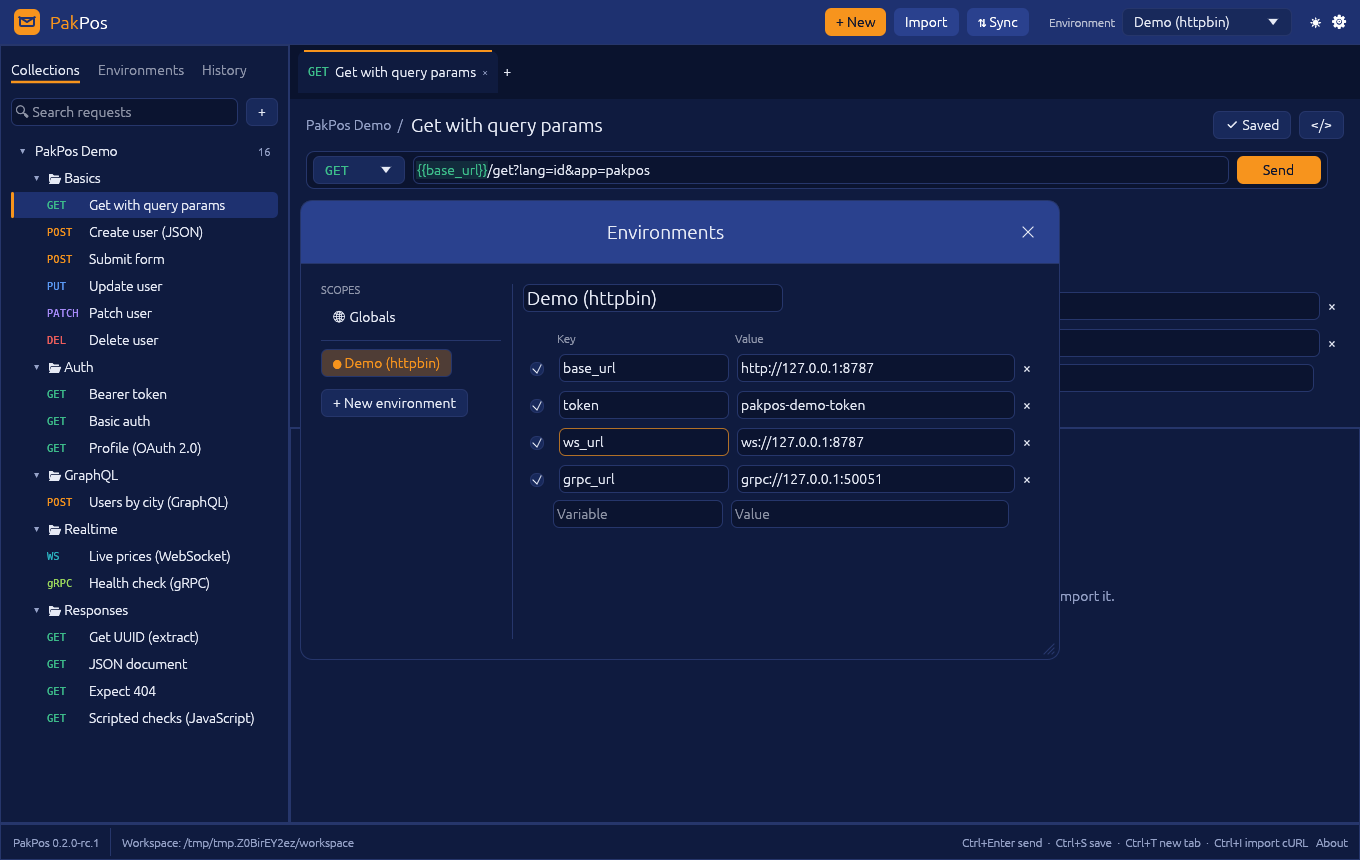
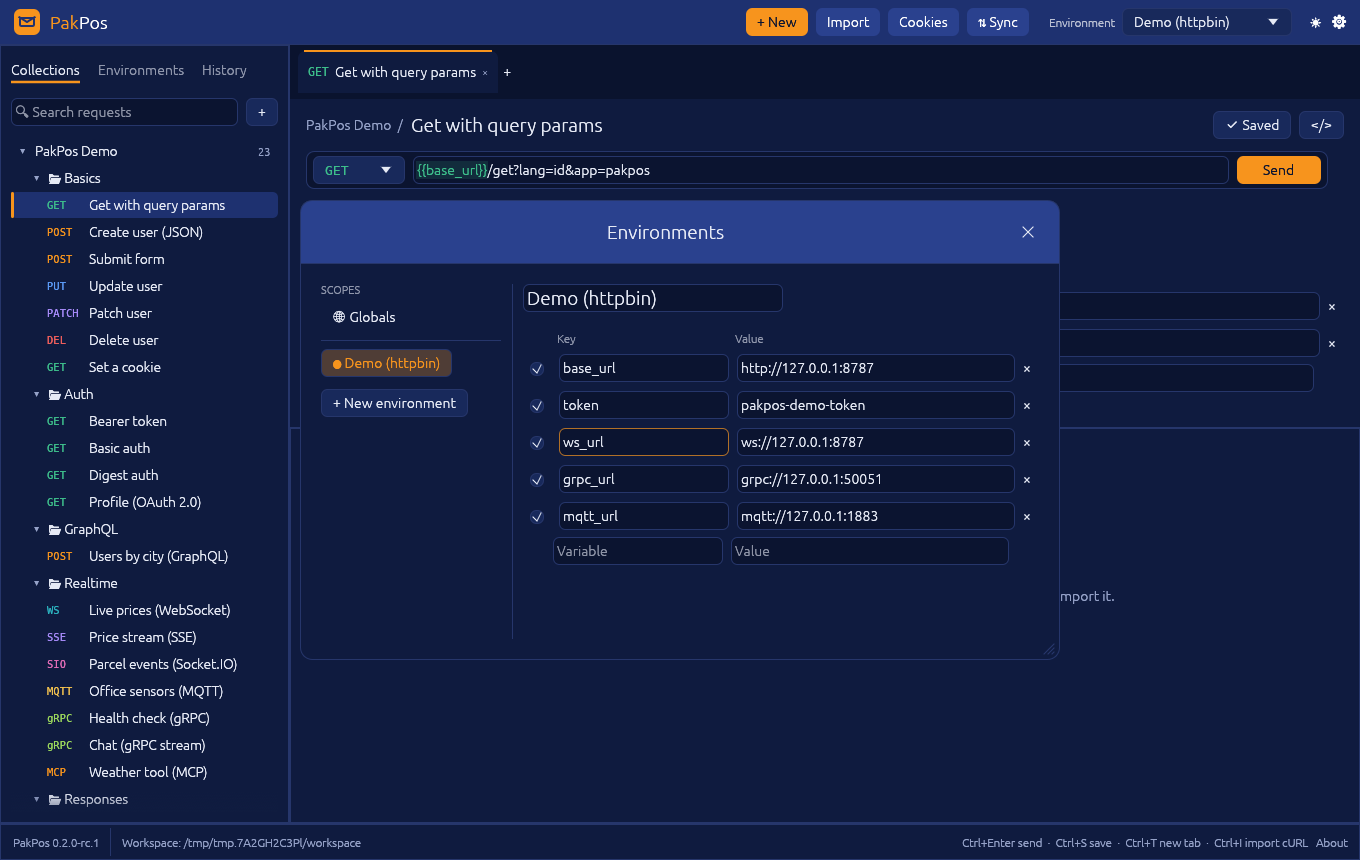
docs: README, roadmap, FAQ and screenshots for the next release
README (EN/ID) describes the new protocols, auth, OpenAPI, data-driven
runs and the Indonesian UI; the gaps list is current. Installation and FAQ
explain macOS 15's Privacy & Security → Open Anyway. All screenshots
regenerated, plus the new bahasa scene.

diff --git a/README.md b/README.md
@@ -41,17 +41,26 @@ out and brings the reply back. That's the whole job.
 ## What it can do today
 
 You can send any common HTTP method with query params, headers, and JSON, form,
-multipart, binary or GraphQL bodies. Basic, Bearer, API-key and OAuth 2.0 auth
-are built in (client credentials, password, and the browser login with PKCE),
+multipart, binary or GraphQL bodies. Basic, Bearer, API-key, Digest, NTLM, AWS
+Signature v4 and OAuth 2.0 auth are built in (client credentials, password, and
+the browser login with PKCE), client certificates (mTLS) can be set per host,
 and a request can inherit auth from its folder or collection, so you set your
 token once instead of forty times. OAuth tokens are fetched and refreshed for
 you, and they live in a local file, never in the collection you share.
 
-It isn't only HTTP. A request can be a **WebSocket** (connect, send messages,
-watch the live log) or a **gRPC** call: PakPos reads the service from server
-reflection or your `.proto` files, gives you a JSON template for the message,
-and shows the reply, streaming included. GraphQL gets a schema explorer, so you
-can click your way to a starter query instead of reading SDL.
+It isn't only HTTP. A request can be a **WebSocket**, **Server-Sent Events**,
+**Socket.IO** or **MQTT** connection (connect, send or publish, watch the live
+log) or a **gRPC** call: PakPos reads the service from server reflection or your
+`.proto` files, gives you a JSON template for the message, and shows the reply.
+Client and bidirectional streams stay open, so you send messages one by one and
+see the answers as they come. GraphQL gets a schema explorer, so you can click
+your way to a starter query instead of reading SDL. And if you build **MCP
+servers**, a request can call their tools, read resources and get prompts, with
+the same tests as a REST call.
+
+Responses can be searched (`Ctrl/⌘ + F`), browsed as a JSON tree, and previewed
+when they're images or HTML. Cookies that servers set go into a jar you can see
+and edit. Requests and folders reorder with drag & drop.
 
 Requests live in collections with folders. Environments hold variables like
 `{{base_url}}` and `{{token}}`: switch from Staging to Production in the header
@@ -62,8 +71,9 @@ For checking responses you have two options. Small declarative checks such as
 `status equals 200`, `json.data.id exists` or `time less than 500` cover most
 needs and are easy to review in a diff. When you need more, write
 JavaScript with a familiar `pm.*` API (`pm.test`, `pm.expect`, `pm.environment.set`…). It
-runs in a sandbox with no file or network access, and scripts from a collection
-you imported only run after you say you trust it.
+runs in a sandbox with no file access, scripts from a collection you imported
+only run after you say you trust it, and `pm.sendRequest` only works for
+collections you also gave network access.
 
 Save a response as an **example** and PakPos can serve those examples as a mock
 API, which is handy when the frontend is ready before the backend is.
@@ -71,7 +81,8 @@ API, which is handy when the frontend is ready before the backend is.
 Have collections from another tool? Files in the common Collection v2.1 JSON
 format, and their environments, [import as-is](docs/src/tutorial/import.md):
 folders, auth (OAuth 2.0 too), GraphQL bodies, scripts and saved examples come
-across. You can also paste a `curl` command straight into the URL
+across. OpenAPI 3 and Swagger 2 specs (JSON or YAML) import too, and any
+collection exports back to OpenAPI 3. You can also paste a `curl` command straight into the URL
 bar, and go the other way with the `</>` button to get cURL, Python, JavaScript
 or HTTPie snippets.
 
@@ -80,7 +91,8 @@ the workspace into a git repository and commits, pulls and pushes it with the
 git you already have, so your history and access control stay on GitHub, GitLab
 or wherever your code lives.
 
-There's a light theme too, if that's your thing:
+The UI speaks English and Bahasa Indonesia (Settings → Language). There's a
+light theme too, if that's your thing:
 
 ![PakPos in light mode](docs/screenshots/light.png)
 
@@ -95,9 +107,11 @@ pakpos-cli run api/collection.json -e api/staging.json --var token=$API_TOKEN \
 ```
 
 It exits non-zero when a check fails, speaks JUnit for GitHub Actions, GitLab
-and Jenkins, and reads Collection v2.1 files too. The CLI also does the rest
-from a terminal: `pakpos-cli grpc` calls gRPC methods, `pakpos-cli ws` opens a
-WebSocket, and `pakpos-cli mock` serves a collection's examples.
+and Jenkins, and reads Collection v2.1 and OpenAPI files too. Add `-d users.csv`
+to run the collection once per data row. The CLI also does the rest from a
+terminal: `pakpos-cli grpc` calls gRPC methods, `ws`, `sse`, `socketio` and
+`mqtt` open live connections, `mcp-client` talks to an MCP server, and
+`pakpos-cli mock` serves a collection's examples.
 
 ## Letting an AI agent use your requests
 
@@ -114,9 +128,11 @@ Grab a build for your OS from the [releases page](https://github.com/sansob/PakP
 an installer or portable zip for Windows (x64 and ARM64), a `.dmg` for macOS
 (Apple Silicon and Intel in one), and a `.deb` or tarball for Linux (x86_64 and arm64).
 
-The builds aren't code-signed yet, so your OS will grumble the first time. On
-macOS right-click the app and choose **Open**; on Windows click **More info →
-Run anyway**. The [installation guide](docs/src/installation.md) has the details.
+The builds aren't code-signed, so your OS will grumble the first time. On
+macOS 15 and later open **System Settings → Privacy & Security** and click
+**Open Anyway** (older versions: right-click the app → **Open**); on Windows
+click **More info → Run anyway**. Each release also carries Homebrew, winget,
+AUR and Flatpak manifests. The [installation guide](docs/src/installation.md) has the details.
 
 If you'd rather build it yourself, you need Rust 1.95 or newer:
 
@@ -130,10 +146,10 @@ The first launch creates a small demo collection, so you have something to press
 
 ## What it doesn't do (yet)
 
-It's a young project, so to be straight about the gaps: scripts can't make network calls (`pm.sendRequest`) or load npm libraries,
-there's no interactive bidirectional gRPC streaming (inputs are sent up front)
-and no Socket.IO or MQTT, the collection runner only runs HTTP requests, and
-there are no data-driven runs from CSV yet. The builds aren't signed. The
+It's a young project, so to be straight about the gaps: scripts can't load npm
+libraries, the collection runner skips WebSocket, SSE, Socket.IO and MQTT
+requests (they're interactive), the package manifests aren't published to Homebrew,
+winget, Flathub or the AUR yet, and the builds aren't signed. The
 [roadmap](docs/src/roadmap.md) lists what's planned, and any of it is up for grabs.
 
 ## Docs
@@ -141,8 +157,9 @@ there are no data-driven runs from CSV yet. The builds aren't signed. The
 The [documentation](https://sansob.github.io/PakPos/) (source in `docs/`) starts
 with six short tutorials: your first request, environments and variables, tests
 and chaining, importing existing collections, running in CI, and the MCP server. The
-reference pages then cover each feature in depth: OAuth 2.0, GraphQL, WebSocket,
-gRPC, scripts, the mock server, Git sync, the CLI and the file format.
+reference pages then cover each feature in depth: auth and client certificates,
+OAuth 2.0, cookies, GraphQL, WebSocket, SSE, Socket.IO and MQTT, gRPC, scripts,
+the mock server, testing MCP servers, Git sync, the CLI and the file format.
 
 ## Helping out
 

diff --git a/README.id.md b/README.id.md
@@ -34,17 +34,27 @@ cuma itu tugasnya.
 ## Bisa apa saja sekarang
 
 Kirim request dengan method apa pun, lengkap dengan query params, header, dan
-body JSON, form, multipart, file, atau GraphQL. Auth Basic, Bearer, API key, dan
-OAuth 2.0 sudah ada (client credentials, password, dan login lewat browser dengan
-PKCE). Request bisa "mewarisi" auth dari folder atau collection, jadi token cukup
+body JSON, form, multipart, file, atau GraphQL. Auth Basic, Bearer, API key,
+Digest, NTLM, AWS Signature v4, dan OAuth 2.0 sudah ada (client credentials,
+password, dan login lewat browser dengan PKCE), plus sertifikat klien (mTLS)
+per host. Request bisa "mewarisi" auth dari folder atau collection, jadi token cukup
 diset sekali. Token OAuth diambil dan diperbarui otomatis, dan disimpan di file
 lokal, bukan di collection yang kamu bagikan.
 
-Bukan cuma HTTP. Request bisa berupa **WebSocket** (connect, kirim pesan, lihat
-log langsung) atau panggilan **gRPC**: PakPos membaca service dari server
-reflection atau file `.proto` kamu, kasih template JSON untuk pesannya, lalu
-menampilkan balasannya, termasuk streaming. GraphQL punya schema explorer, jadi
-tinggal klik untuk dapat query awal.
+Bukan cuma HTTP. Request bisa berupa koneksi **WebSocket**, **Server-Sent
+Events**, **Socket.IO**, atau **MQTT** (connect, kirim atau publish, lihat log
+langsung) atau panggilan **gRPC**: PakPos membaca service dari server reflection
+atau file `.proto` kamu, kasih template JSON untuk pesannya, lalu menampilkan
+balasannya. Stream client dan dua arah tetap terbuka, jadi pesan bisa dikirim
+satu per satu dan balasannya muncul langsung. GraphQL punya schema explorer,
+jadi tinggal klik untuk dapat query awal. Lagi bikin **server MCP**? Request bisa
+memanggil tool, membaca resource, dan mengambil prompt-nya, dengan test yang
+sama seperti request REST.
+
+Response bisa dicari (`Ctrl/⌘ + F`), dilihat sebagai pohon JSON, dan
+dipratinjau kalau isinya gambar atau HTML. Cookie dari server masuk ke cookie
+jar yang bisa dilihat dan diedit. Urutan request dan folder bisa diatur dengan
+drag & drop.
 
 Request disusun dalam collection dan folder. Environment menyimpan variabel
 seperti `{{base_url}}` dan `{{token}}`: ganti dari Staging ke Production di
@@ -55,8 +65,9 @@ Untuk mengecek response ada dua cara. Pengecekan sederhana seperti `status
 equals 200` atau `json.data.id exists` sudah cukup untuk kebanyakan kebutuhan
 dan gampang di-review. Kalau butuh lebih, tulis JavaScript dengan API `pm.*`
 (`pm.test`, `pm.expect`, `pm.environment.set`…). Script jalan di sandbox tanpa
-akses file dan jaringan, dan script dari collection hasil import baru jalan
-setelah kamu menyatakan percaya.
+akses file, script dari collection hasil import baru jalan setelah kamu
+menyatakan percaya, dan `pm.sendRequest` cuma bisa dipakai di collection yang
+juga kamu beri akses jaringan.
 
 Response bisa disimpan sebagai **example**, lalu PakPos bisa menyajikannya sebagai
 mock API. Cocok kalau frontend sudah siap duluan sebelum backend.
@@ -65,15 +76,22 @@ Punya collection dari tool lain? File berformat Collection v2.1 JSON beserta
 environment-nya bisa [langsung diimport](docs/src/tutorial/import.md): folder, auth (termasuk OAuth 2.0), body GraphQL, script, dan example ikut
 terbawa. Bisa juga paste perintah `curl` langsung ke kolom URL, atau sebaliknya
 pakai tombol `</>` untuk dapat snippet cURL, Python, JavaScript, atau HTTPie.
+Spec OpenAPI 3 dan Swagger 2 (JSON atau YAML) juga bisa diimport, dan collection
+apa pun bisa diekspor balik ke OpenAPI 3.
 
 Sengaja nggak pakai cloud. Kalau mau berbagi dengan tim, tombol **⇅ Sync** menjadikan
 workspace sebuah repo git, lalu commit, pull, dan push memakai git yang sudah
 terpasang di komputer kamu. Riwayat dan hak akses tetap di GitHub/GitLab/tempat
 kode kamu berada.
 
-Ada mode terang juga:
+Tampilannya tersedia dalam bahasa Inggris dan Bahasa Indonesia (Pengaturan →
+Bahasa). Ada mode terang juga:
 
 ![PakPos mode terang](docs/screenshots/light.png)
+
+Dan ini tampilannya dalam Bahasa Indonesia:
+
+![PakPos dalam Bahasa Indonesia](docs/screenshots/bahasa.png)
 
 ## Command line dan CI
 
@@ -86,7 +104,10 @@ pakpos-cli run api/collection.json -e api/staging.json --var token=$API_TOKEN \
 ```
 
 Exit code-nya bukan nol kalau ada test yang gagal, bisa output JUnit untuk GitHub
-Actions/GitLab/Jenkins, dan bisa baca file Collection v2.1 juga.
+Actions/GitLab/Jenkins, dan bisa baca file Collection v2.1 dan OpenAPI juga.
+Tambahkan `-d users.csv` untuk menjalankan collection sekali per baris data.
+Selain itu ada `pakpos-cli grpc`, `ws`, `sse`, `socketio`, `mqtt`, `mcp-client`,
+dan `mock` untuk dipakai langsung dari terminal.
 
 ## Dipakai AI agent
 
@@ -102,8 +123,11 @@ Ambil build untuk OS kamu di [halaman releases](https://github.com/sansob/PakPos
 installer atau zip portable untuk Windows (x64 dan ARM64), `.dmg` untuk macOS
 (Apple Silicon dan Intel jadi satu), dan `.deb` atau tarball untuk Linux (x86_64 dan arm64).
 
-Build-nya belum di-code-sign, jadi OS kamu akan protes saat pertama dibuka. Di
-macOS klik kanan aplikasi lalu pilih **Open**; di Windows klik **More info → Run anyway**.
+Build-nya nggak di-code-sign, jadi OS kamu akan protes saat pertama dibuka. Di
+macOS 15 ke atas buka **System Settings → Privacy & Security** lalu klik
+**Open Anyway** (versi lama: klik kanan aplikasi → **Open**); di Windows klik
+**More info → Run anyway**. Tiap rilis juga menyertakan manifest Homebrew,
+winget, AUR, dan Flatpak.
 
 Mau build sendiri? Butuh Rust 1.95 atau lebih baru:
 
@@ -117,11 +141,10 @@ tekan **Send** (`Ctrl/⌘ + Enter`).
 
 ## Yang belum bisa
 
-Proyek ini masih muda. Supaya jujur soal kekurangannya: script
-belum bisa melakukan panggilan jaringan (`pm.sendRequest`) atau memuat library
-npm, streaming gRPC dua arah belum interaktif (input dikirim di awal), belum ada
-Socket.IO/MQTT, runner koleksi hanya menjalankan request HTTP, dan belum ada
-data-driven run dari CSV. Build-nya juga belum di-sign. Lihat
+Proyek ini masih muda. Supaya jujur soal kekurangannya: script belum bisa
+memuat library npm, runner koleksi melewati request WebSocket, SSE, Socket.IO,
+dan MQTT (karena sifatnya interaktif), manifest paketnya belum dipublikasikan
+ke Homebrew, winget, Flathub, atau AUR, dan build-nya belum di-sign. Lihat
 [roadmap](docs/src/roadmap.md); semuanya boleh diambil kalau mau bantu.
 
 ## Mau bantu?

diff --git a/docs/src/roadmap.md b/docs/src/roadmap.md
@@ -5,21 +5,27 @@ Ideas, roughly by priority. Open an issue before starting something big.
 **Done in 0.2:** OAuth 2.0, GraphQL with schema explorer, WebSocket, gRPC,
 sandboxed JavaScript scripts, examples + mock server, Git sync.
 
+**Done since 0.2 (next release):** Digest, AWS Signature v4 and NTLM auth;
+client certificates (mTLS) for HTTPS and gRPC; data-driven runs (CSV / JSON)
+and gRPC in the runner; cookie jar viewer/editor; response search, JSON tree,
+image and HTML preview; drag & drop in the sidebar; `pm.sendRequest` behind a
+per-collection network permission; interactive gRPC streams; Server-Sent
+Events, Socket.IO and MQTT; MCP client requests; OpenAPI 3 / Swagger 2 import
+and OpenAPI 3 export; package manager manifests (Homebrew, winget, Flatpak,
+AUR); the UI in Bahasa Indonesia.
+
 **Next**
-- Digest, AWS Signature v4 and NTLM auth; client certificates (mTLS), also for gRPC
-- Data-driven runs (CSV / JSON iterations) and running gRPC requests in the runner
-- Cookie jar viewer/editor
-- Response search, JSON tree view, image/HTML preview
-- Drag & drop to reorder requests and folders
-- `pm.sendRequest` behind an explicit per-collection network permission
+- Publish the package manifests: a Homebrew tap, winget-pkgs, Flathub and the
+  AUR (each needs a maintainer account; see [Package managers](contributing/packaging.md))
+- More UI languages, and translating the CLI's messages
+- npm-style libraries in scripts (a vetted, bundled set rather than `require`)
+- Socket.IO and MQTT in the collection runner and the CLI test reporters
+- MQTT 5
 
 **Later**
-- Interactive bidirectional gRPC streaming
-- Socket.IO, Server-Sent Events, MQTT
-- MCP *client* request type (test MCP servers, like a REST request)
-- OpenAPI 3 import / export
-- Code-signed and notarised builds; Homebrew, winget, Flatpak, AUR packages
-- Translations of the UI (Bahasa Indonesia first)
+- Code-signed and notarised builds (needs paid Apple and Windows certificates;
+  not planned while PakPos is used by developers who can allow an unsigned app)
+- HTTP/3
 
 **Probably not**
 - Hosted cloud accounts and sync: Git sync covers sharing without a server.

diff --git a/docs/src/faq.md b/docs/src/faq.md
@@ -1,10 +1,11 @@
 # FAQ
 
 **Can PakPos replace my current API client?**
-For most day-to-day work, yes: HTTP, GraphQL, WebSocket and gRPC requests,
-collections, environments, OAuth 2.0, tests and scripts, mock servers, CI runs and
-team sharing (through git). The gaps are listed in the [roadmap](roadmap.md):
-`pm.sendRequest` and npm libraries in scripts, data-driven runs, some auth types.
+For most day-to-day work, yes: HTTP, GraphQL, WebSocket, gRPC, SSE,
+Socket.IO, MQTT and MCP requests, collections, environments, OAuth 2.0, Digest,
+AWS SigV4 and NTLM auth, client certificates, tests and scripts, data-driven
+runs, mock servers, CI runs and team sharing (through git). The gaps are listed
+in the [roadmap](roadmap.md), npm libraries in scripts being the main one.
 
 **Can I run existing JavaScript tests?**
 Yes, in a sandbox (no file, process or network access) and only for collections
@@ -20,8 +21,12 @@ Yes: point `PAKPOS_HOME` at a folder in a git repository. Each collection is one
 JSON file, so reviews and merges are straightforward.
 
 **macOS says the app "cannot be opened".**
-Builds are not notarised yet. Right-click → *Open*, or run
-`xattr -dr com.apple.quarantine /Applications/PakPos.app`.
+Builds are not notarised. On macOS 15 and later open *System Settings →
+Privacy & Security* and click *Open Anyway*; on older versions right-click →
+*Open*. Or run `xattr -dr com.apple.quarantine /Applications/PakPos.app`.
+
+**Can I use PakPos in Bahasa Indonesia?**
+Yes: Settings → Language. It follows the system locale until you pick one.
 
 **The window is blank or crashes on Linux.**
 PakPos needs OpenGL 2+. In VMs or remote sessions try `LIBGL_ALWAYS_SOFTWARE=1 pakpos`.

diff --git a/docs/src/installation.md b/docs/src/installation.md
@@ -14,8 +14,11 @@ Builds are not code-signed yet, so SmartScreen may warn: click **More info → R
 ## macOS 11+ (Apple Silicon and Intel)
 
 1. Open `PakPos-x.y.z-macos-universal.dmg` and drag **PakPos** into **Applications**.
-2. The first time, **right-click PakPos → Open → Open** (the app is ad-hoc signed, not notarised).
-   If macOS still refuses: `xattr -dr com.apple.quarantine /Applications/PakPos.app`.
+2. The app is ad-hoc signed, not notarised, so macOS blocks the first launch.
+   On macOS 15 (Sequoia) and later: open PakPos once, dismiss the warning, then go to
+   **System Settings → Privacy & Security**, scroll down and click **Open Anyway**.
+   On older versions: **right-click PakPos → Open → Open**.
+   Or, from a terminal: `xattr -dr com.apple.quarantine /Applications/PakPos.app`.
 
 The CLI lives inside the bundle; link it onto your PATH:
 
